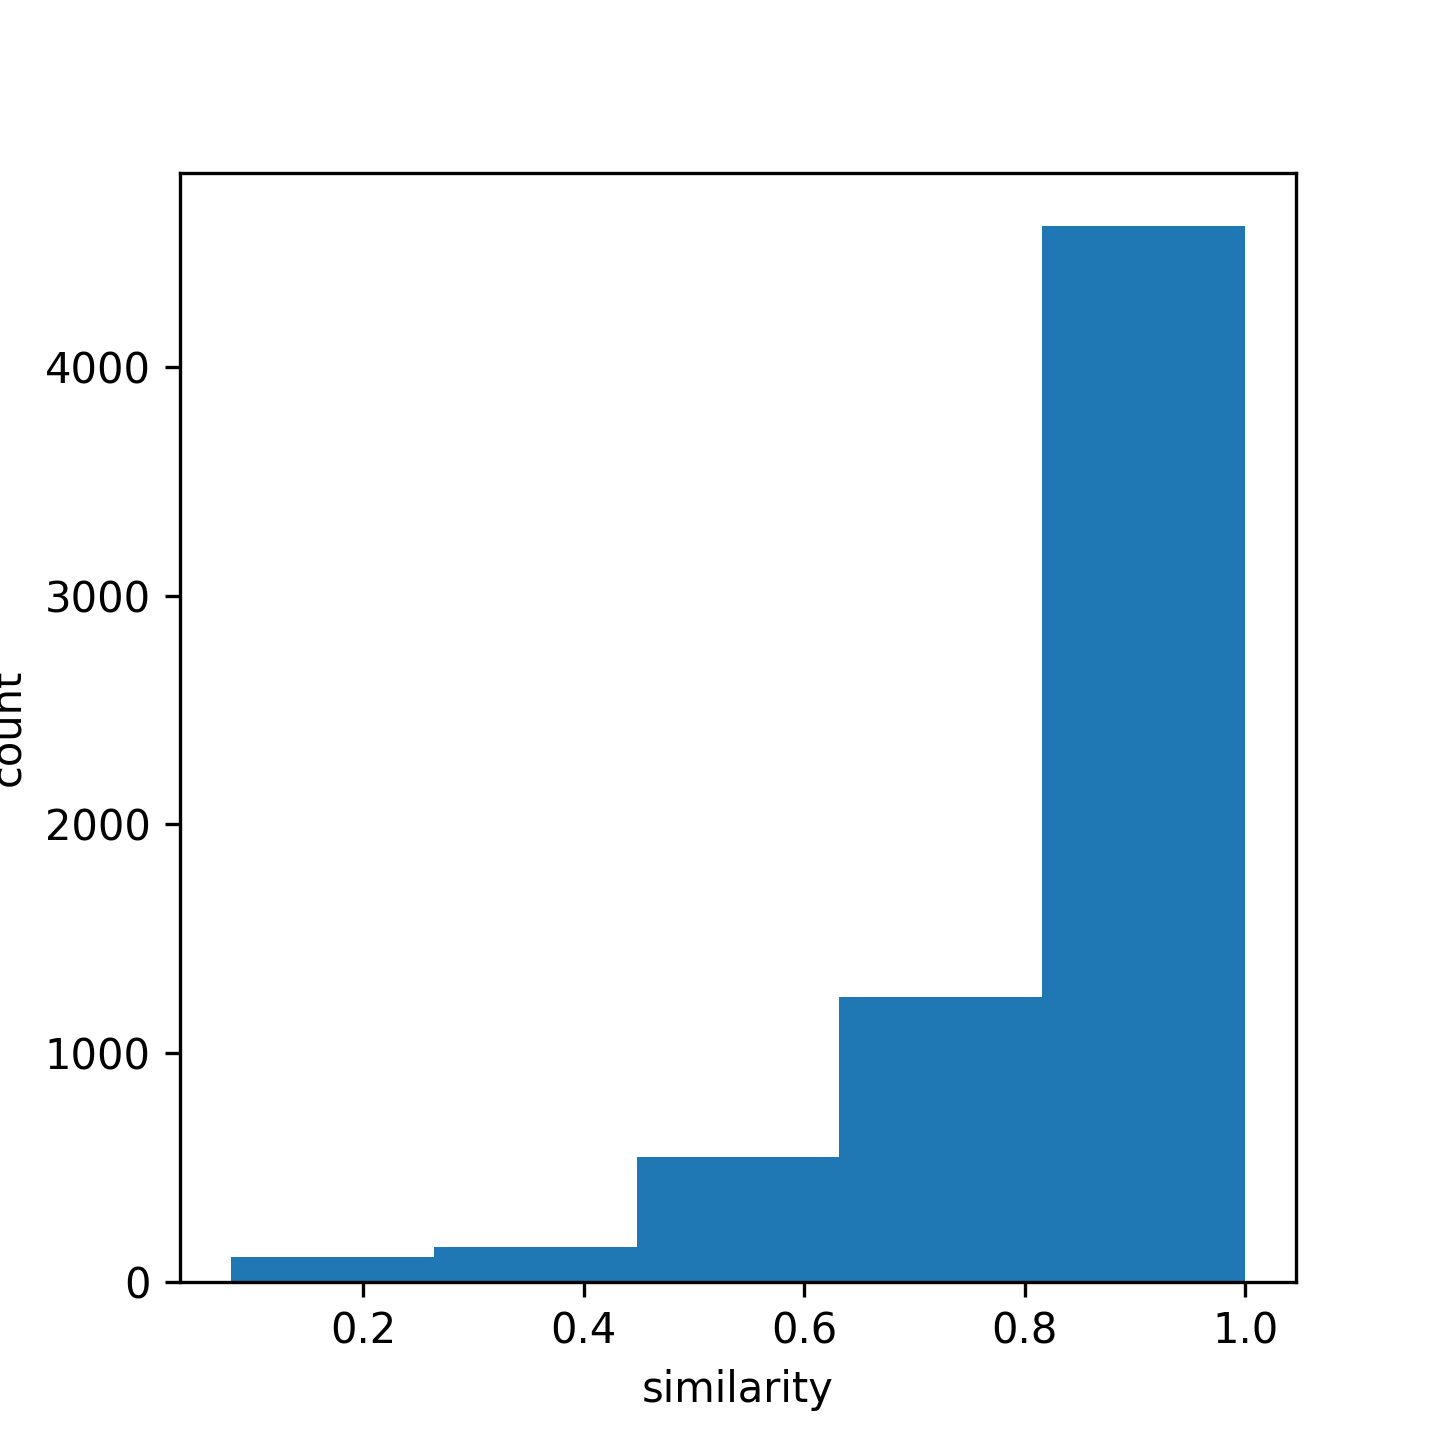
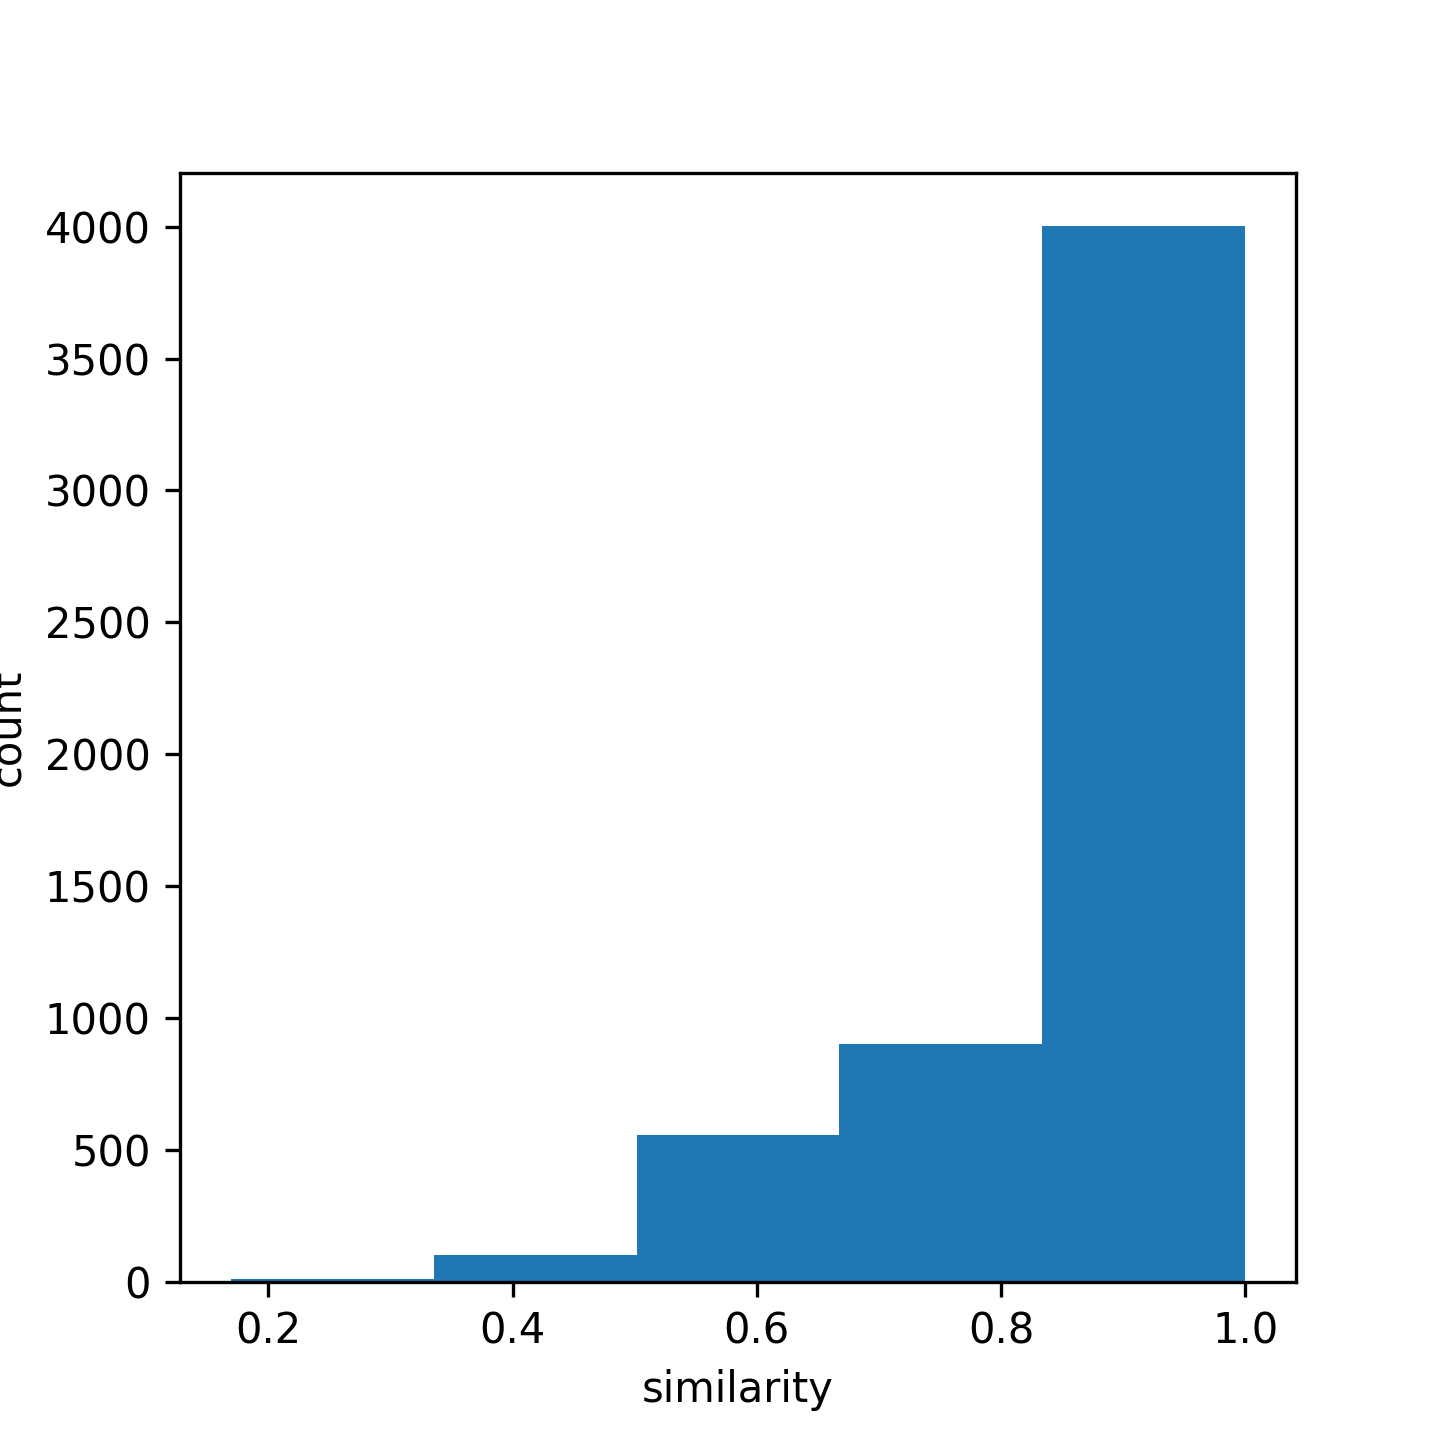
cleaning ended

diff --git a/clead_dataset_row_by_row.py b/clead_dataset_row_by_row.py
@@ -20,9 +20,9 @@ logging.basicConfig(format='%(levelname)s\t%(message)s',
                     filemode="w",
                     level=logging.INFO)
 
-DIRTY_CSV = "data/cleaned_df_v8.csv"
-CLEAN_CSV = "data/cleaned_df_v9.csv"
-CONVERSION_JSON = "data/check_data_utils/redundant_conversion.json"
+DIRTY_CSV = "data/cleaned_df_FINALISSIMO.csv"
+CLEAN_CSV = "data/cleaned_df_FINALISSIMISSIMO.csv"
+CONVERSION_JSON = "redundant_conversion_final.json"
 TOTAL_LINES = get_num_lines(DIRTY_CSV)
 
 sp_keys = get_spotify_keys("./spotify_info/spotify_keys.txt")
@@ -54,7 +54,41 @@ with open(DIRTY_CSV, "r",
             right_id = conversion_dict[combined_originals]
             # if the id is None than write the row as it is and skip this iteration
             if right_id == "None":
-                clean_writer.writerow(row)
+                clean_writer.writerow([
+                    row[0],
+                    row[1],
+                    row[2],
+                    row[3],
+                    row[4],
+                    row[5],
+                    "",
+                    "",
+                    "",
+                    "",
+                    "",
+                    "",
+                    "",
+                    "",
+                    row[14],
+                    "",
+                    "",
+                    "",
+                    "",
+                    "",
+                    "",
+                    "",
+                    "",
+                    "",
+                    "",
+                    "",
+                    "",
+                    "",
+                    "",
+                    "",
+                    "",
+                    "",
+                    ""
+                ])
                 continue
             # empty id means that the original id was right
             if right_id == "":

diff --git a/data/check_data_utils/check_data_integrity_row_by_row.py b/data/check_data_utils/check_data_integrity_row_by_row.py
@@ -8,7 +8,7 @@ from difflib import SequenceMatcher
 import csv
 import json
 
-CSV_PATH = "/home/giuseppe/Documents/Master/progetto/data/check_data_utils/xaa"
+CSV_PATH = "../cleaned_df_FINALISSIMO.csv"
 ONLY_GRAPH = True
 
 
@@ -53,7 +53,7 @@ with open(CSV_PATH, "r", encoding="utf8") as data_file:
 
                 redundant_conversion_dict[combined_originals] = new_id
                 print()
-    with open("redundant_conversion.json", "w", encoding="utf8") as outfile:
+    with open("../../redundant_conversion_final.json", "w", encoding="utf8") as outfile:
         json.dump(redundant_conversion_dict, outfile)
 
     print(f"CONGRATULATIONS! You parsed all alone {len(redundant_conversion_dict)}"

diff --git a/data/check_data_utils/check_data_integrity.py b/data/check_data_utils/check_data_integrity.py
@@ -23,8 +23,8 @@ import re
 import pandas as pd
 import matplotlib.pyplot as plt
 
-CSV_PATH = "/home/giuseppe/Documents/Master/progetto/data/cleaned_df_v3.csv"
-ONLY_GRAPH = True
+CSV_PATH = "/home/giuseppe/Documents/Master/progetto/data/cleaned_df_FINALISSIMISSIMO.csv"
+ONLY_GRAPH = False
 
 
 def group_by_names(ungrouped_df: pd.DataFrame) -> pd.DataFrame:
@@ -99,7 +99,7 @@ if not ONLY_GRAPH:
         f_artists = row["artists_names"]
         score = row["score"]
         sp_id = row["song_id"]
-        if score <= 0.98:
+        if score <= 0.28:
             print()
             print()
             print(f"{o_name[:20]:20}\t{f_name[:20]:20}\t{sp_id}\n"
